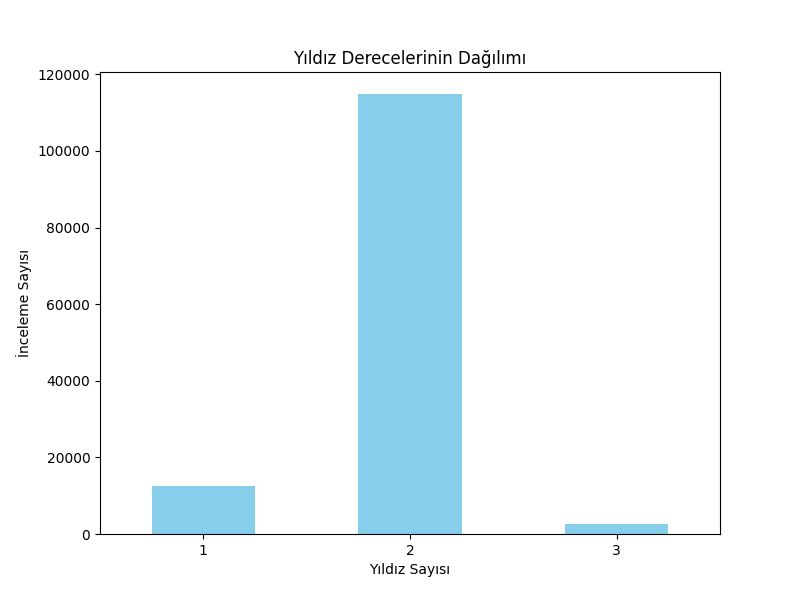
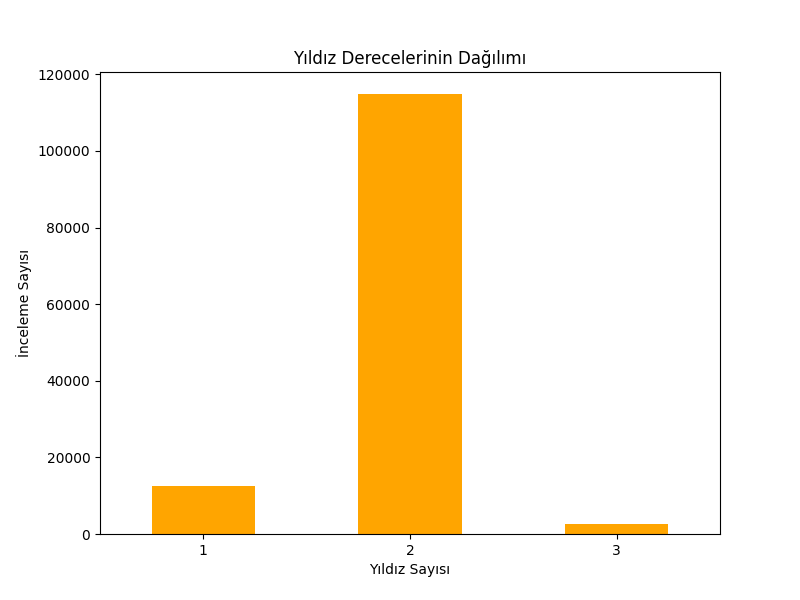
Graphic color changed to orange

Changed region(s): [[0.4375, 0.15, 0.5938, 0.9], [0.1875, 0.81, 0.3438, 0.9], [0.6875, 0.87, 0.8438, 0.9]]

diff --git a/wine_analysis.py b/wine_analysis.py
@@ -23,12 +23,12 @@ df['star_ratings'] = calculate_star_ratings(df)
 
 # 2. Analiz: Ülkelere göre ortalama puanlar (ilk 10)
 country_avg_points = df.groupby('country')['points'].mean().sort_values(ascending=False).head(10)
-print("En Yüksek Ortalama Puana Sahip 10 Ülke:")
+print("10 Countries with the Highest Average Score:")
 print(country_avg_points)
 
 # 3. Görselleştirme: Yıldız derecelerinin dağılımı
 plt.figure(figsize=(8, 6))  # Grafik boyutunu ayarlıyoruz
-df['star_ratings'].value_counts().sort_index().plot(kind='bar', color='skyblue')  # Çubuk grafik çiziyoruz
+df['star_ratings'].value_counts().sort_index().plot(kind='bar', color='orange')  # Çubuk grafik çiziyoruz
 plt.title('Yıldız Derecelerinin Dağılımı')  # Başlık
 plt.xlabel('Yıldız Sayısı')  # X ekseni etiketi
 plt.ylabel('İnceleme Sayısı')  # Y ekseni etiketi
